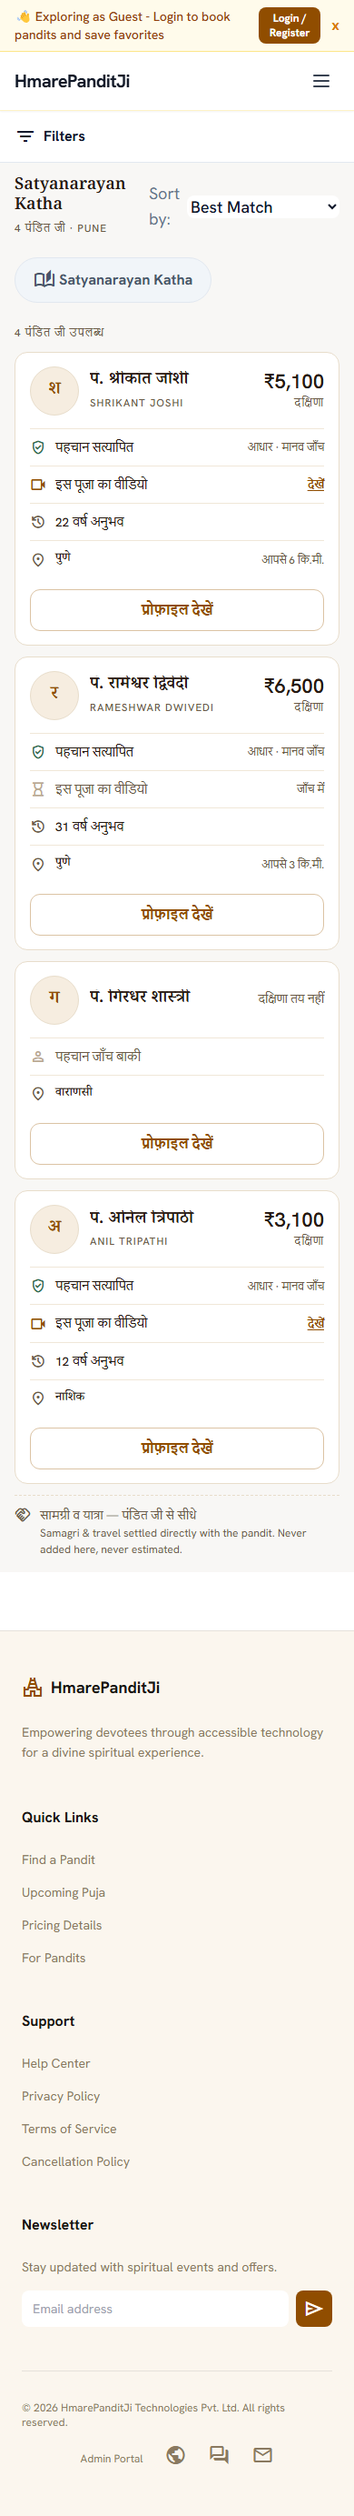
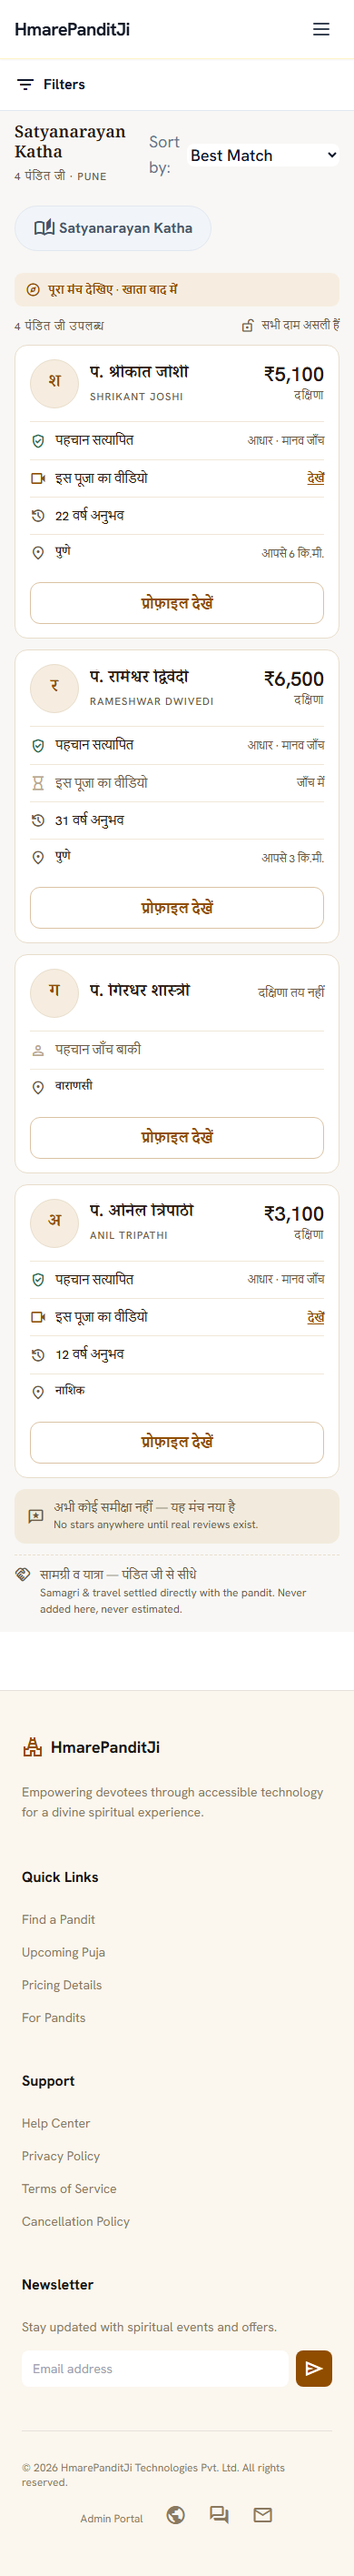
feat(web): ग्राहक ऐप turn 2 — अतिथि guest mode, structural room, trust-without-reviews
The design doc gained a second turn since the last import: "अतिथि मोड +
संरचनात्मक जगह". Two of its three parts are direction-independent and apply to
the chosen 1c card exactly as they would to 1b.

अतिथि · GUEST MODE — "the paywall is at commitment, not at the door".
- GuestStrip: persistent, quiet, saffron-tinted, NOT dismissible. Says what he
  CAN do ("पूरा मंच देखिए · खाता बाद में"), never what he can't. Placement 2a
  (header, reads as a mode you're in) adopted as a declared default; 2b (thumb)
  is one prop.
- RealPricesNote "सभी दाम असली हैं" — audited first: apps/web has no price
  paywall, no blur, no teaser range, so the promise was already true and is now
  stated and guarded.
- BookingGatePromise carries the sentence the doc calls "the whole trick":
  "पंडित जी, तारीख और दाम — सब वैसे ही रहेंगे". A gate that silently preserves
  state is still frightening; only saying so removes the fear.

RETIRED THE CONTRADICTING BANNER. The header shipped "👋 Exploring as Guest -
Login to book pandits and save favorites" — dismissible, nagging, in the old
orange, and phrased entirely as what a guest CANNOT do. It sat directly above
the new strip saying the opposite. Old implementation deleted, not left dead.

संरचनात्मक जगह · STRUCTURAL ROOM. The card's rows are now five named slots
(person · offering · record · place · reserved). Slot 5 renders NOTHING at
pilot — it is a spec, not a ghost element, because a reserved slot that draws
[…]

diff --git a/apps/pandit/src/lib/customerDesign.test.ts b/apps/pandit/src/lib/customerDesign.test.ts
@@ -1,0 +1,116 @@
+import { describe, it, expect } from "vitest";
+import { readFileSync } from "node:fs";
+import { join } from "node:path";
+
+// ─────────────────────────────────────────────────────────────
+// ग्राहक ऐप — the rules from turn 2 that are about what must NOT exist.
+//
+// A promise that a dark pattern is absent cannot be proven by looking at the
+// screen — the screen looks fine right up until someone adds the blur. These
+// only hold as guards.
+// ─────────────────────────────────────────────────────────────
+
+const WEB = join(__dirname, "..", "..", "..", "..", "apps", "web");
+
+// A guard that scans source must look at CODE, not at prose. Without this the
+// comment explaining a forbidden pattern trips the assertion forbidding it —
+// which is exactly how this file first failed. (Same cure as
+// services/api/src/lib/kycContract.test.ts.)
+const stripComments = (s: string) =>
+  s
+    .replace(/\/\*[\s\S]*?\*\//g, "")
+    .split("\n")
+    .filter((l) => !/^\s*(\/\/|\*)/.test(l))
+    .join("\n");
+
+const read = (p: string) => stripComments(readFileSync(join(WEB, p), "utf8"));
+/** Raw source, comments intact — for the one rule whose subject IS a comment. */
+const readRaw = (p: string) => readFileSync(join(WEB, p), "utf8");
+
+const SEARCH = read("src/app/search/search-client.tsx");
+const CARD = read("components/design/PanditRecordCard.tsx");
+const GUEST = read("components/design/GuestMode.tsx");
+const VERIF = read("components/design/Verification.tsx");
+
+describe("अतिथि · the paywall is at commitment, not at the door", () => {
+  it("guest mode says what he CAN do, never what he can't", () => {
+    expect(GUEST).toMatch(/पूरा मंच देखिए · खाता बाद में/);
+    // no restriction language anywhere in the guest surface
+    for (const forbidden of ["लॉगिन करें देखने के लिए", "sign in to view", "login to see"]) {
+      expect(GUEST.toLowerCase()).not.toContain(forbidden.toLowerCase());
+    }
+  });
+
+  it("the price is never a bargaining chip — no blur, no teaser, no gate", () => {
+    // the money figure must not be wrapped in any auth condition
+    const priceBlock = CARD.slice(CARD.indexOf("hasDakshina ?"), CARD.indexOf("दक्षिणा तय नहीं"));
+    expect(priceBlock).not.toMatch(/isAuthenticated|user\b|token|login/i);
+    expect(priceBlock).not.toMatch(/blur/i);
+    // and the search screen states the promise out loud
+    expect(SEARCH).toMatch(/RealPricesNote/);
+    expect(GUEST).toMatch(/सभी दाम असली हैं/);
+  });
+
+  it("the gate names what is preserved — the sentence IS the trick", () => {
+    expect(GUEST).toMatch(/पंडित जी, तारीख और दाम — सब वैसे ही रहेंगे/);
+  });
+});
+
+describe("संरचनात्मक जगह · structural room", () => {
+  it("slot 5 is reserved and renders NOTHING at pilot", () => {
+    // Slot 5 renders nothing, so the ONLY trace it can leave is the spec
+    // itself. That is the point: "the slot is a spec, not a ghost element."
+    // Asserting on raw source keeps the reservation from being quietly
+    // deleted by someone who sees a comment and no code.
+    expect(readRaw("components/design/PanditRecordCard.tsx")).toMatch(/slot 5 — RESERVED/);
+    // a reserved slot that draws something is a promise; there must be no
+    // placeholder, dimmed row, or "coming soon" anywhere in the card
+    expect(CARD).not.toMatch(/coming soon|जल्द आ रहा|अभी उपलब्ध नहीं/i);
+  });
+
+  it("nothing implies travel BETWEEN cities — only distance within one", () => {
+    // distance is in scope; fares, routes and modes of travel are not
+    for (const outOfScope of ["किराया", "यात्रा शुल्क", "train", "flight", "रेल", "उड़ान", "travel fare"]) {
+      expect(CARD.toLowerCase()).not.toContain(outOfScope.toLowerCase());
+    }
+    // distance within one city is the ONLY spatial claim the card makes
+    expect(CARD).toMatch(/आपसे/);
+    expect(CARD).toMatch(/कि\.मी\./);
+  });
+});
+
+describe("बिना समीक्षा भरोसा · trust with zero reviews", () => {
+  it("admits the absence rather than hiding it", () => {
+    expect(VERIF).toMatch(/अभी कोई समीक्षा नहीं/);
+    expect(SEARCH).toMatch(/NoReviewsNotice/);
+  });
+
+  it("no stars are ever rendered while there are no reviews", () => {
+    expect(CARD).not.toMatch(/★|☆|star_rate|rating/i);
+  });
+
+  it("specificity beats superlatives — no uncheckable claims", () => {
+    // NB: no bare "#1" here — it matches hex colours like #1a140d and makes
+    // the guard cry wolf. Match phrases a human would actually write.
+    for (const s of ["best pandit", "top rated", "top-rated", "most trusted", "number 1 pandit"]) {
+      expect(SEARCH.toLowerCase()).not.toContain(s);
+      expect(CARD.toLowerCase()).not.toContain(s);
+    }
+  });
+});
+
+describe("दो सत्यापन stay two", () => {
+  it("green is reserved for verified identity and is never a success colour", () => {
+    const tw = read("tailwind.config.ts");
+    expect(tw).not.toMatch(/success:/);
+    expect(tw).toMatch(/tulsi/);
+  });
+
+  it("the pooja video badge is a separate component from the identity pill", () => {
+    expect(VERIF).toMatch(/export function IdentityVerifiedPill/);
+    expect(VERIF).toMatch(/export function PoojaVideoBadge/);
+    // and the pending state never promises a date
+    const pending = VERIF.slice(VERIF.indexOf('state === "pending"'));
+    expect(pending).not.toMatch(/\d+\s*(दिन|घंटे|days|hours)/);
+  });
+});

diff --git a/apps/web/components/design/GuestMode.tsx b/apps/web/components/design/GuestMode.tsx
@@ -1,0 +1,86 @@
+"use client";
+
+import React from "react";
+import { DesignIcon as Icon } from "./Verification";
+
+// ─────────────────────────────────────────────────────────────
+// अतिथि · GUEST MODE
+// Source: Claude Design "ग्राहक ऐप · Customer.dc.html", turn 2.
+//
+// THE LAW: "The paywall is at commitment, not at the door."
+//
+// So guest mode must never read as a restriction. It reads as an invitation
+// with nothing withheld — it says what he CAN do, never what he can't. It is
+// persistent and quiet: never a banner, never dismissible-and-nagging.
+//
+// AND THE PRICE IS NEVER A BARGAINING CHIP: no blur, no "login to see price",
+// no teaser range. A guest sees the same ₹5,100 a registered user sees.
+// guestMode.test.ts pins that — it is a rule about what must NOT exist, so it
+// can only be held by a guard.
+// ─────────────────────────────────────────────────────────────
+
+/**
+ * 2a (default) — the guest chip in the header, sitting with the search
+ * context; it reads as a mode you are in.
+ * 2b — the same promise at the thumb.
+ *
+ * Adopted as a declared default (2a) because on a long results list a fixed
+ * bottom element shadows content for the whole scroll, and the doc asks for
+ * "quiet". Swapping is one prop — nothing else changes.
+ */
+export function GuestStrip({ placement = "header" }: { placement?: "header" | "thumb" }) {
+  const base =
+    "flex items-center gap-2 rounded-[9px] bg-saffron-tint px-3 py-2.5 text-[12px] leading-[1.4] text-saffron";
+  if (placement === "thumb") {
+    return (
+      <div className="sticky bottom-0 z-20 -mx-gutter px-gutter pb-3 pt-2">
+        <div className={base}>
+          <Icon name="explore" size={17} />
+          <span className="font-semibold">पूरा मंच देखिए · खाता बाद में</span>
+        </div>
+      </div>
+    );
+  }
+  return (
+    <div className={base}>
+      <Icon name="explore" size={17} />
+      <span className="font-semibold">पूरा मंच देखिए · खाता बाद में</span>
+    </div>
+  );
+}
+
+/**
+ * Stated once beside the prices: every number a guest sees is the real one.
+ * This is a promise about the absence of a dark pattern, so it is worth
+ * saying out loud on the screen where the prices are.
+ */
+export function RealPricesNote() {
+  return (
+    <div className="flex items-center gap-2 text-[12px] text-muted">
+      <Icon name="lock_open_right" size={16} />
+      सभी दाम असली हैं
+    </div>
+  );
+}
+
+/**
+ * THE ONE GATE — shown at "बुक करें", never before.
+ *
+ * "पंडित जी, तारीख और दाम — सब वैसे ही रहेंगे" is, in the design doc's own
+ * words, "the whole trick": everything he chose is preserved through the gate,
+ * AND he is told so out loud before he is asked for anything. A gate that
+ * silently preserves state is still frightening; only the sentence removes the
+ * fear of losing the choice he just made.
+ */
+export function BookingGatePromise() {
+  return (
+    <div className="rounded-card bg-cream-tint px-3.5 py-3">
+      <div className="text-[13px] font-semibold text-ink">बुकिंग पक्की करने के लिए</div>
+      <div className="mt-1 text-[12.5px] leading-[1.5] text-muted">
+        पंडित जी, तारीख और दाम — सब वैसे ही रहेंगे
+      </div>
+    </div>
+  );
+}
+
+export default GuestStrip;

diff --git a/apps/web/components/Header.tsx b/apps/web/components/Header.tsx
@@ -11,43 +11,25 @@ type NavLink = {
   external?: boolean;
 };
 
-function GuestBanner({ onSignIn }: { onSignIn: () => void }) {
-  const [dismissed, setDismissed] = useState(false);
-
-  useEffect(() => {
-    const stored = sessionStorage.getItem("guestBannerDismissed");
-    if (stored === "1") setDismissed(true);
-  }, []);
-
-  if (dismissed) return null;
-
-  return (
-    <div className="bg-amber-50 border-b border-amber-200 px-4 py-2 flex items-center justify-between text-sm z-50">
-      <span className="text-amber-800 font-medium">
-        👋 Exploring as Guest - Login to book pandits and save favorites
-      </span>
-      <div className="flex items-center gap-3">
-        <button
-          type="button"
-          onClick={onSignIn}
-          className="bg-primary text-white px-3 py-1 rounded-btn text-xs font-bold hover:bg-primary/90 transition-colors"
-        >
-          Login / Register
-        </button>
-        <button
-          type="button"
-          onClick={() => {
-            sessionStorage.setItem("guestBannerDismissed", "1");
-            setDismissed(true);
-          }}
-          className="text-amber-600 hover:text-amber-900 font-bold text-base leading-none"
-          aria-label="Dismiss"
-        >
-          x
-        </button>
-      </div>
-    </div>
-  );
+// ─────────────────────────────────────────────────────────────
+// अतिथि · GUEST MODE — the banner is RETIRED (design doc turn 2).
+//
+// It read "👋 Exploring as Guest - Login to book pandits and save favorites":
+// a dismissible-and-nagging banner, in the old orange, stating what a guest
+// CANNOT do. Turn 2's law is the opposite on every count —
+//   "The paywall is at commitment, not at the door. So guest mode must never
+//    read as a restriction — it reads as an invitation with nothing withheld.
+//    Persistent, quiet, saffron-tinted — never a banner, never
+//    dismissible-and-nagging. Says what he CAN do, not what he can't."
+//
+// Its replacement is <GuestStrip> in components/design/GuestMode.tsx, which
+// sits with the search context and says "पूरा मंच देखिए · खाता बाद में".
+// Leaving both shipped a screen that contradicted itself top to bottom.
+//
+// The `onSignIn` route is untouched — the ONE gate still lives at बुक करें.
+// ─────────────────────────────────────────────────────────────
+function GuestBanner({ onSignIn: _onSignIn }: { onSignIn: () => void }) {
+  return null;
 }
 
 export default function Header() {

diff --git a/apps/web/src/app/search/search-client.tsx b/apps/web/src/app/search/search-client.tsx
@@ -6,7 +6,8 @@ import Image from "next/image";
 import { useAuth } from "../../context/auth-context";
 import { LoginModal } from "../../components/LoginModal";
 import { PanditRecordCard } from "../../../components/design/PanditRecordCard";
-import { MoneyNote } from "../../../components/design/Verification";
+import { MoneyNote, NoReviewsNotice } from "../../../components/design/Verification";
+import { GuestStrip, RealPricesNote } from "../../../components/design/GuestMode";
 import type { PoojaVideoState } from "../../../components/design/Verification";
 
 // ── Types ────────────────────────────────────────────────────────────────────
@@ -759,7 +760,15 @@ export default function SearchClient({
               // 1c · अभिलेख — the record. 12px between cards (the doc's rhythm),
               // not the old 24px grid gap.
               <div className="flex flex-col gap-3">
-                <div className="micro-label">{pandits.length} पंडित जी उपलब्ध</div>
+                {/* अतिथि · guest mode, 2a — a mode you are in, sitting with the
+                    search context. Says what he CAN do; the paywall is at
+                    commitment, not at the door. Shown only to a guest: telling
+                    a signed-in customer he may browse freely is noise. */}
+                {!isAuthenticated && !authLoading && <GuestStrip placement="header" />}
+                <div className="flex items-center justify-between gap-3">
+                  <div className="micro-label">{pandits.length} पंडित जी उपलब्ध</div>
+                  <RealPricesNote />
+                </div>
                 {pandits.map((pandit) => (
                   <PanditRecordCard
                     key={pandit.id}
@@ -779,6 +788,10 @@ export default function SearchClient({
                     onWatchVideo={() => router.push(`/pandit/${pandit.id}#video`)}
                   />
                 ))}
+                {/* Trust with zero reviews, substitute 4: admitting what is
+                    missing. The honest absence proves the ticks above are not
+                    decorative. */}
+                <NoReviewsNotice />
                 <MoneyNote />
               </div>
             )}

diff --git a/apps/web/components/design/PanditRecordCard.tsx b/apps/web/components/design/PanditRecordCard.tsx
@@ -142,7 +142,23 @@ export function PanditRecordCard({
         </div>
       </div>
 
-      {/* the record */}
+      {/* ── THE RECORD · संरचनात्मक जगह (structural room, turn 2) ──
+          Five numbered slots in a fixed order. The card must be able to grow a
+          travel/logistics line later WITHOUT being rebuilt — and must not hint
+          at it now. So slot 5 is a SPEC, not a ghost element: at pilot it
+          renders nothing at all, no placeholder, no dimmed row, no "coming
+          soon". A reserved slot that draws something is just a promise.
+
+            slot 1  person    पहचान
+            slot 2  offering  इस पूजा का वीडियो
+            slot 3  record    अनुभव · यह पूजा
+            slot 4  place     क्षेत्र · दूरी      (in scope: ONE city)
+            slot 5  reserved  renders nothing
+
+          SCOPE LAW: distance within one city is in scope. Travel BETWEEN
+          cities is not, and nothing here may imply it — hence the plain
+          "आपसे N कि.मी." and no mode-of-travel, fare, or route language
+          anywhere on this card. */}
       <div className="mt-3.5 flex flex-col">
         {/* THE PERSON — green only when a human actually checked his Aadhaar */}
         {identityVerified ? (
@@ -218,6 +234,8 @@ export function PanditRecordCard({
             }
           />
         )}
+        {/* slot 5 — RESERVED. Renders nothing at pilot, by design. When the
+            logistics line arrives it is inserted HERE and no other row moves. */}
       </div>
 
       <button

diff --git a/apps/web/app/dashboard/bookings/[bookingId]/page.tsx b/apps/web/app/dashboard/bookings/[bookingId]/page.tsx
@@ -208,7 +208,11 @@ export default function BookingDetailPage() {
                             <div className="bg-white border text-left border-gray-200 rounded-xl p-6 shadow-sm flex flex-col items-center justify-center py-10">
                                 <div className="text-4xl mb-3">🕒</div>
                                 <h3 className="font-bold text-gray-900 mb-1">Pandit Assignment Pending</h3>
-                                <p className="text-gray-500 text-center text-sm">We are matching you with the best pandit for your puja.</p>
+                                {/* "the best pandit" is a superlative and therefore
+                                    uncheckable — the design's trust rule is that
+                                    specificity beats superlatives. Say what is
+                                    actually happening instead. */}
+                                <p className="text-gray-500 text-center text-sm">आपकी पूजा के लिए पंडित जी खोजे जा रहे हैं।</p>
                             </div>
                         )}
                     </div>
